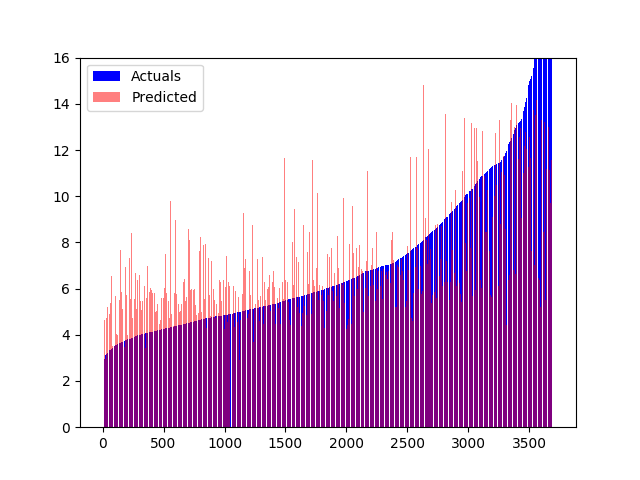
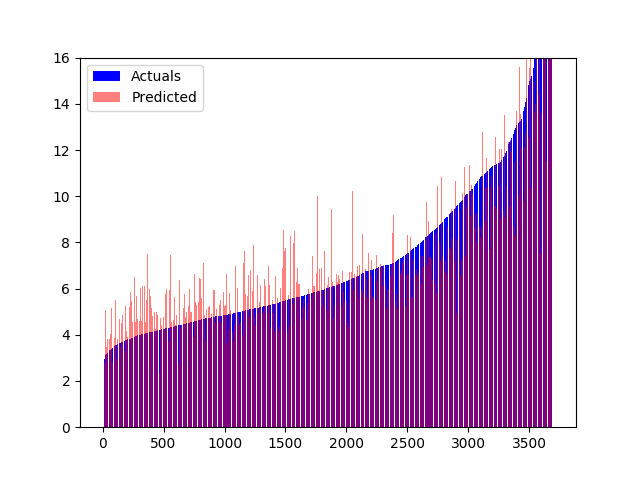
Updated images

Changed region(s): [[0.1562, 0.125, 0.875, 0.75]]

diff --git a/gcn_model/model.py b/gcn_model/model.py
@@ -91,7 +91,7 @@ def main():
 	model = Net(11).to(device)
 	criterion = torch.nn.MSELoss()
 	optimizer = torch.optim.Adam(model.parameters(), lr=3E-4)
-	epoch = 50
+	epoch = 400
 	print("Starting Training:")
 	print("*"*40)
 	model.train()
